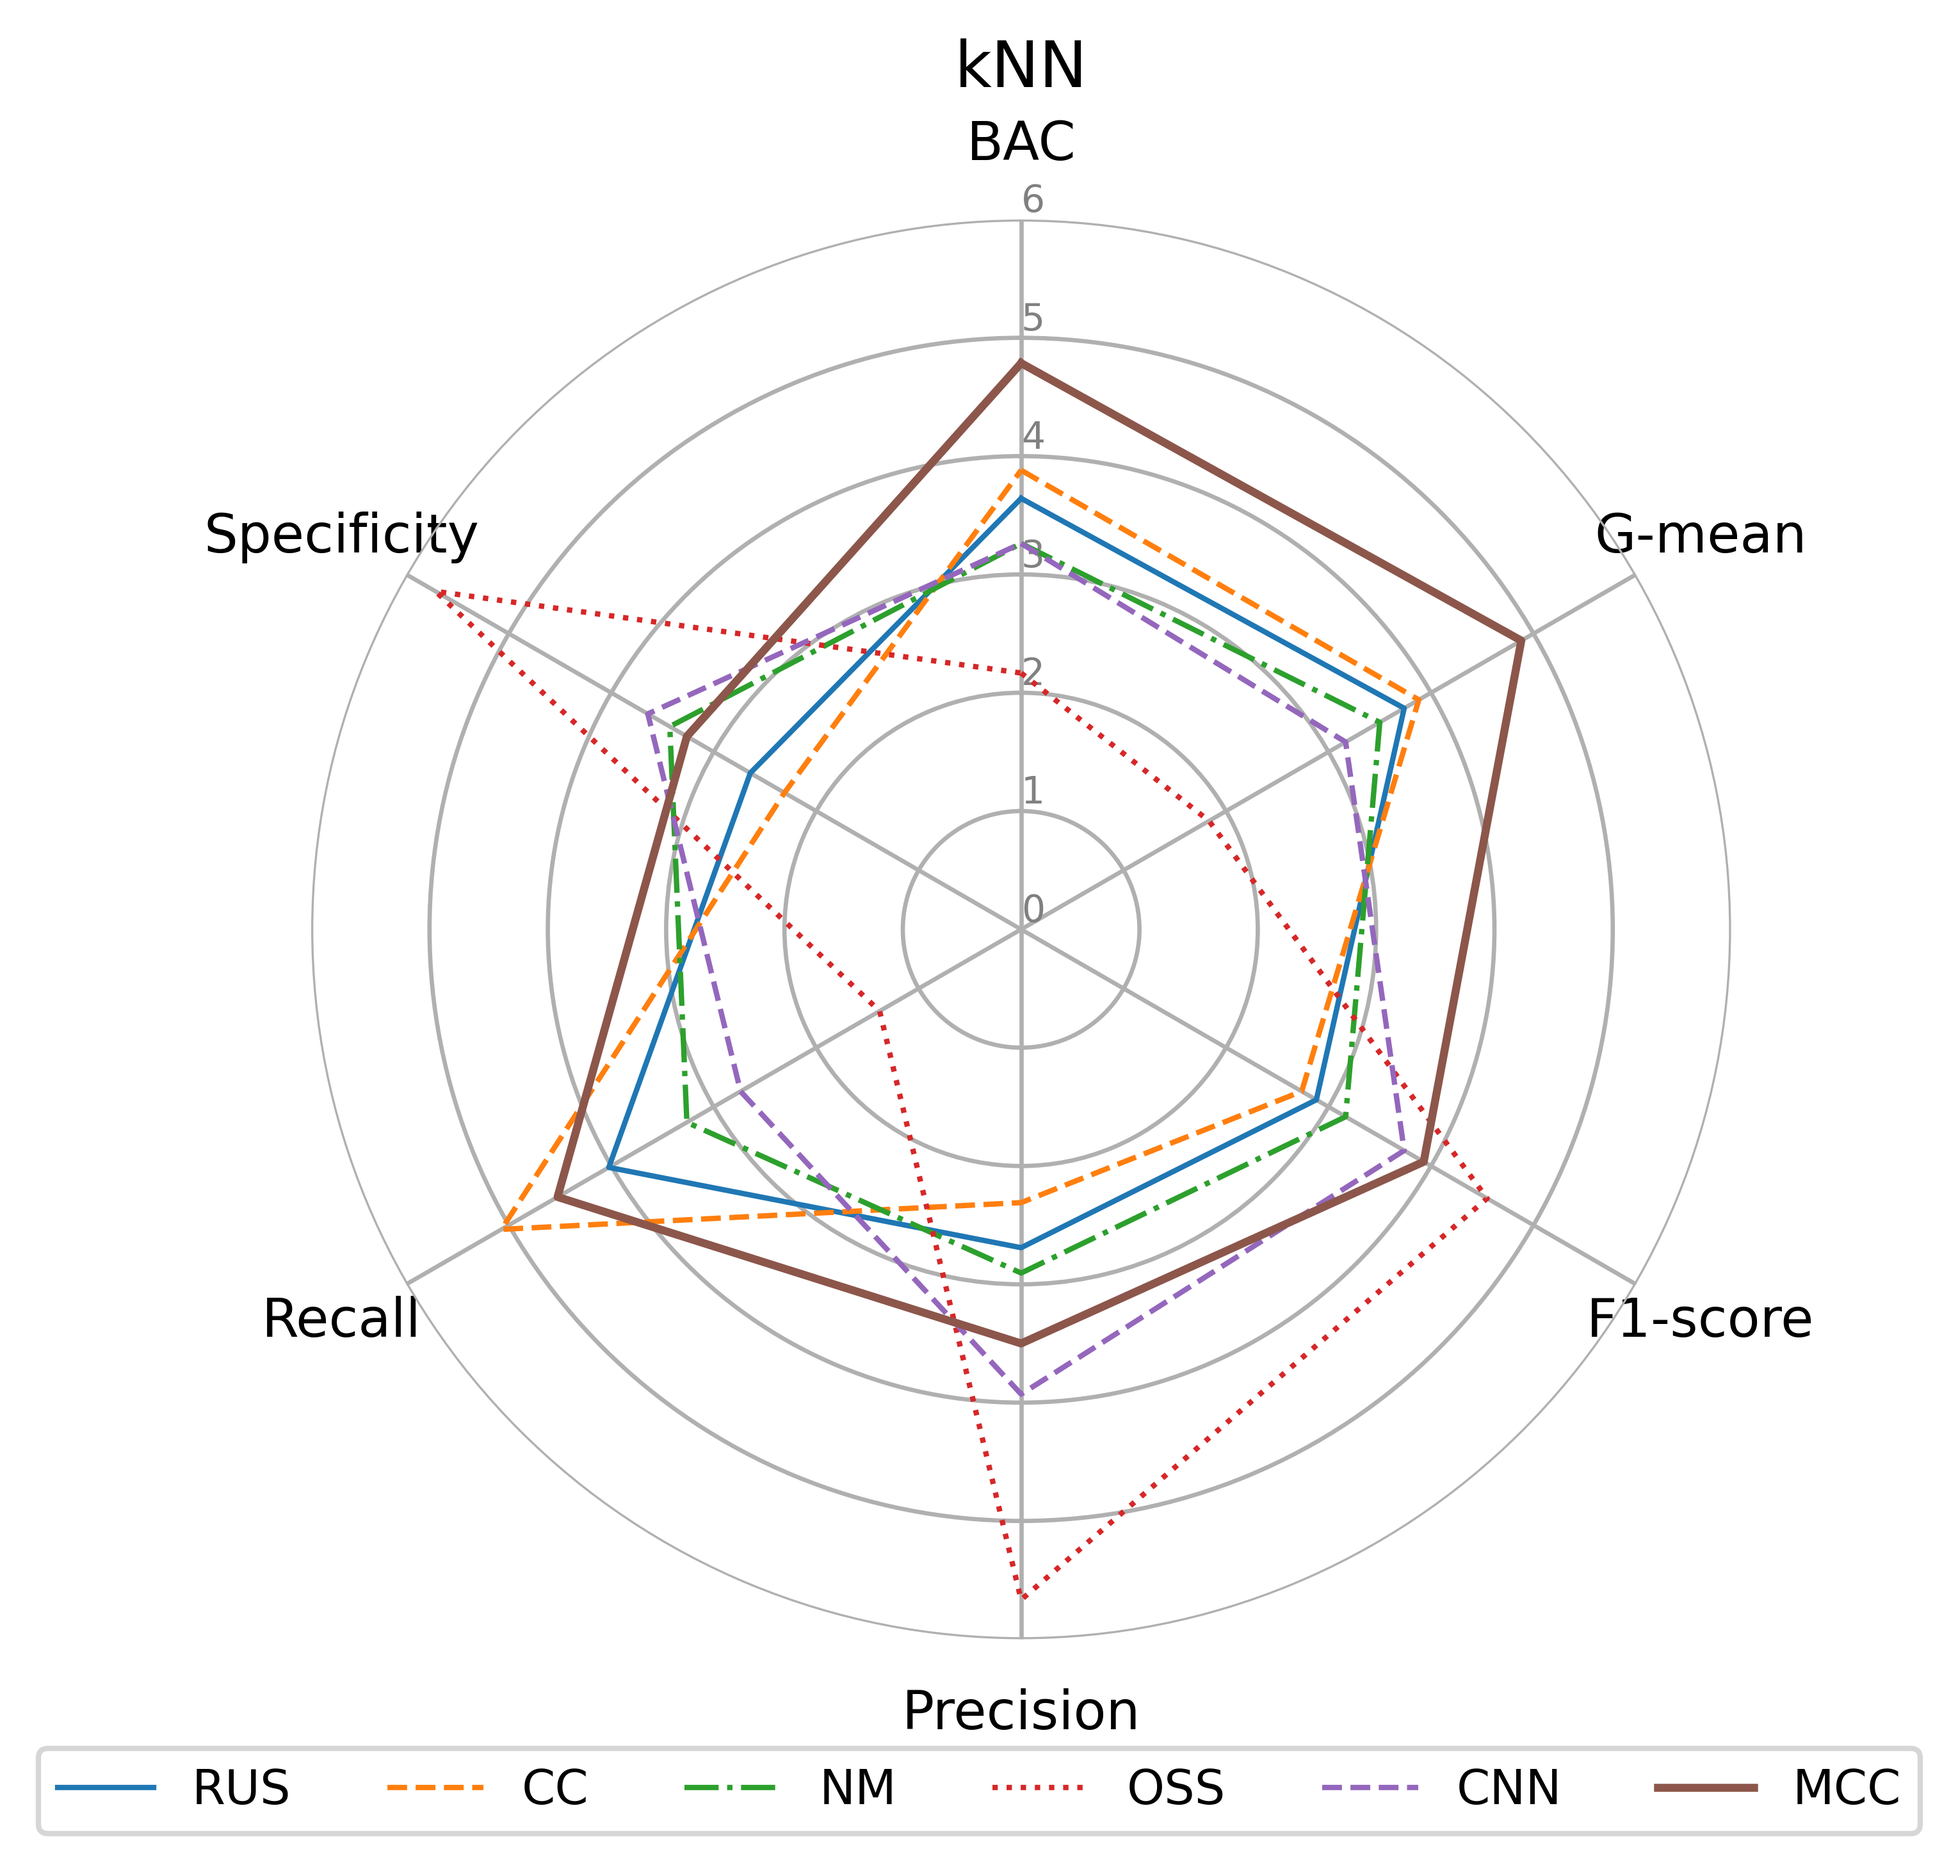
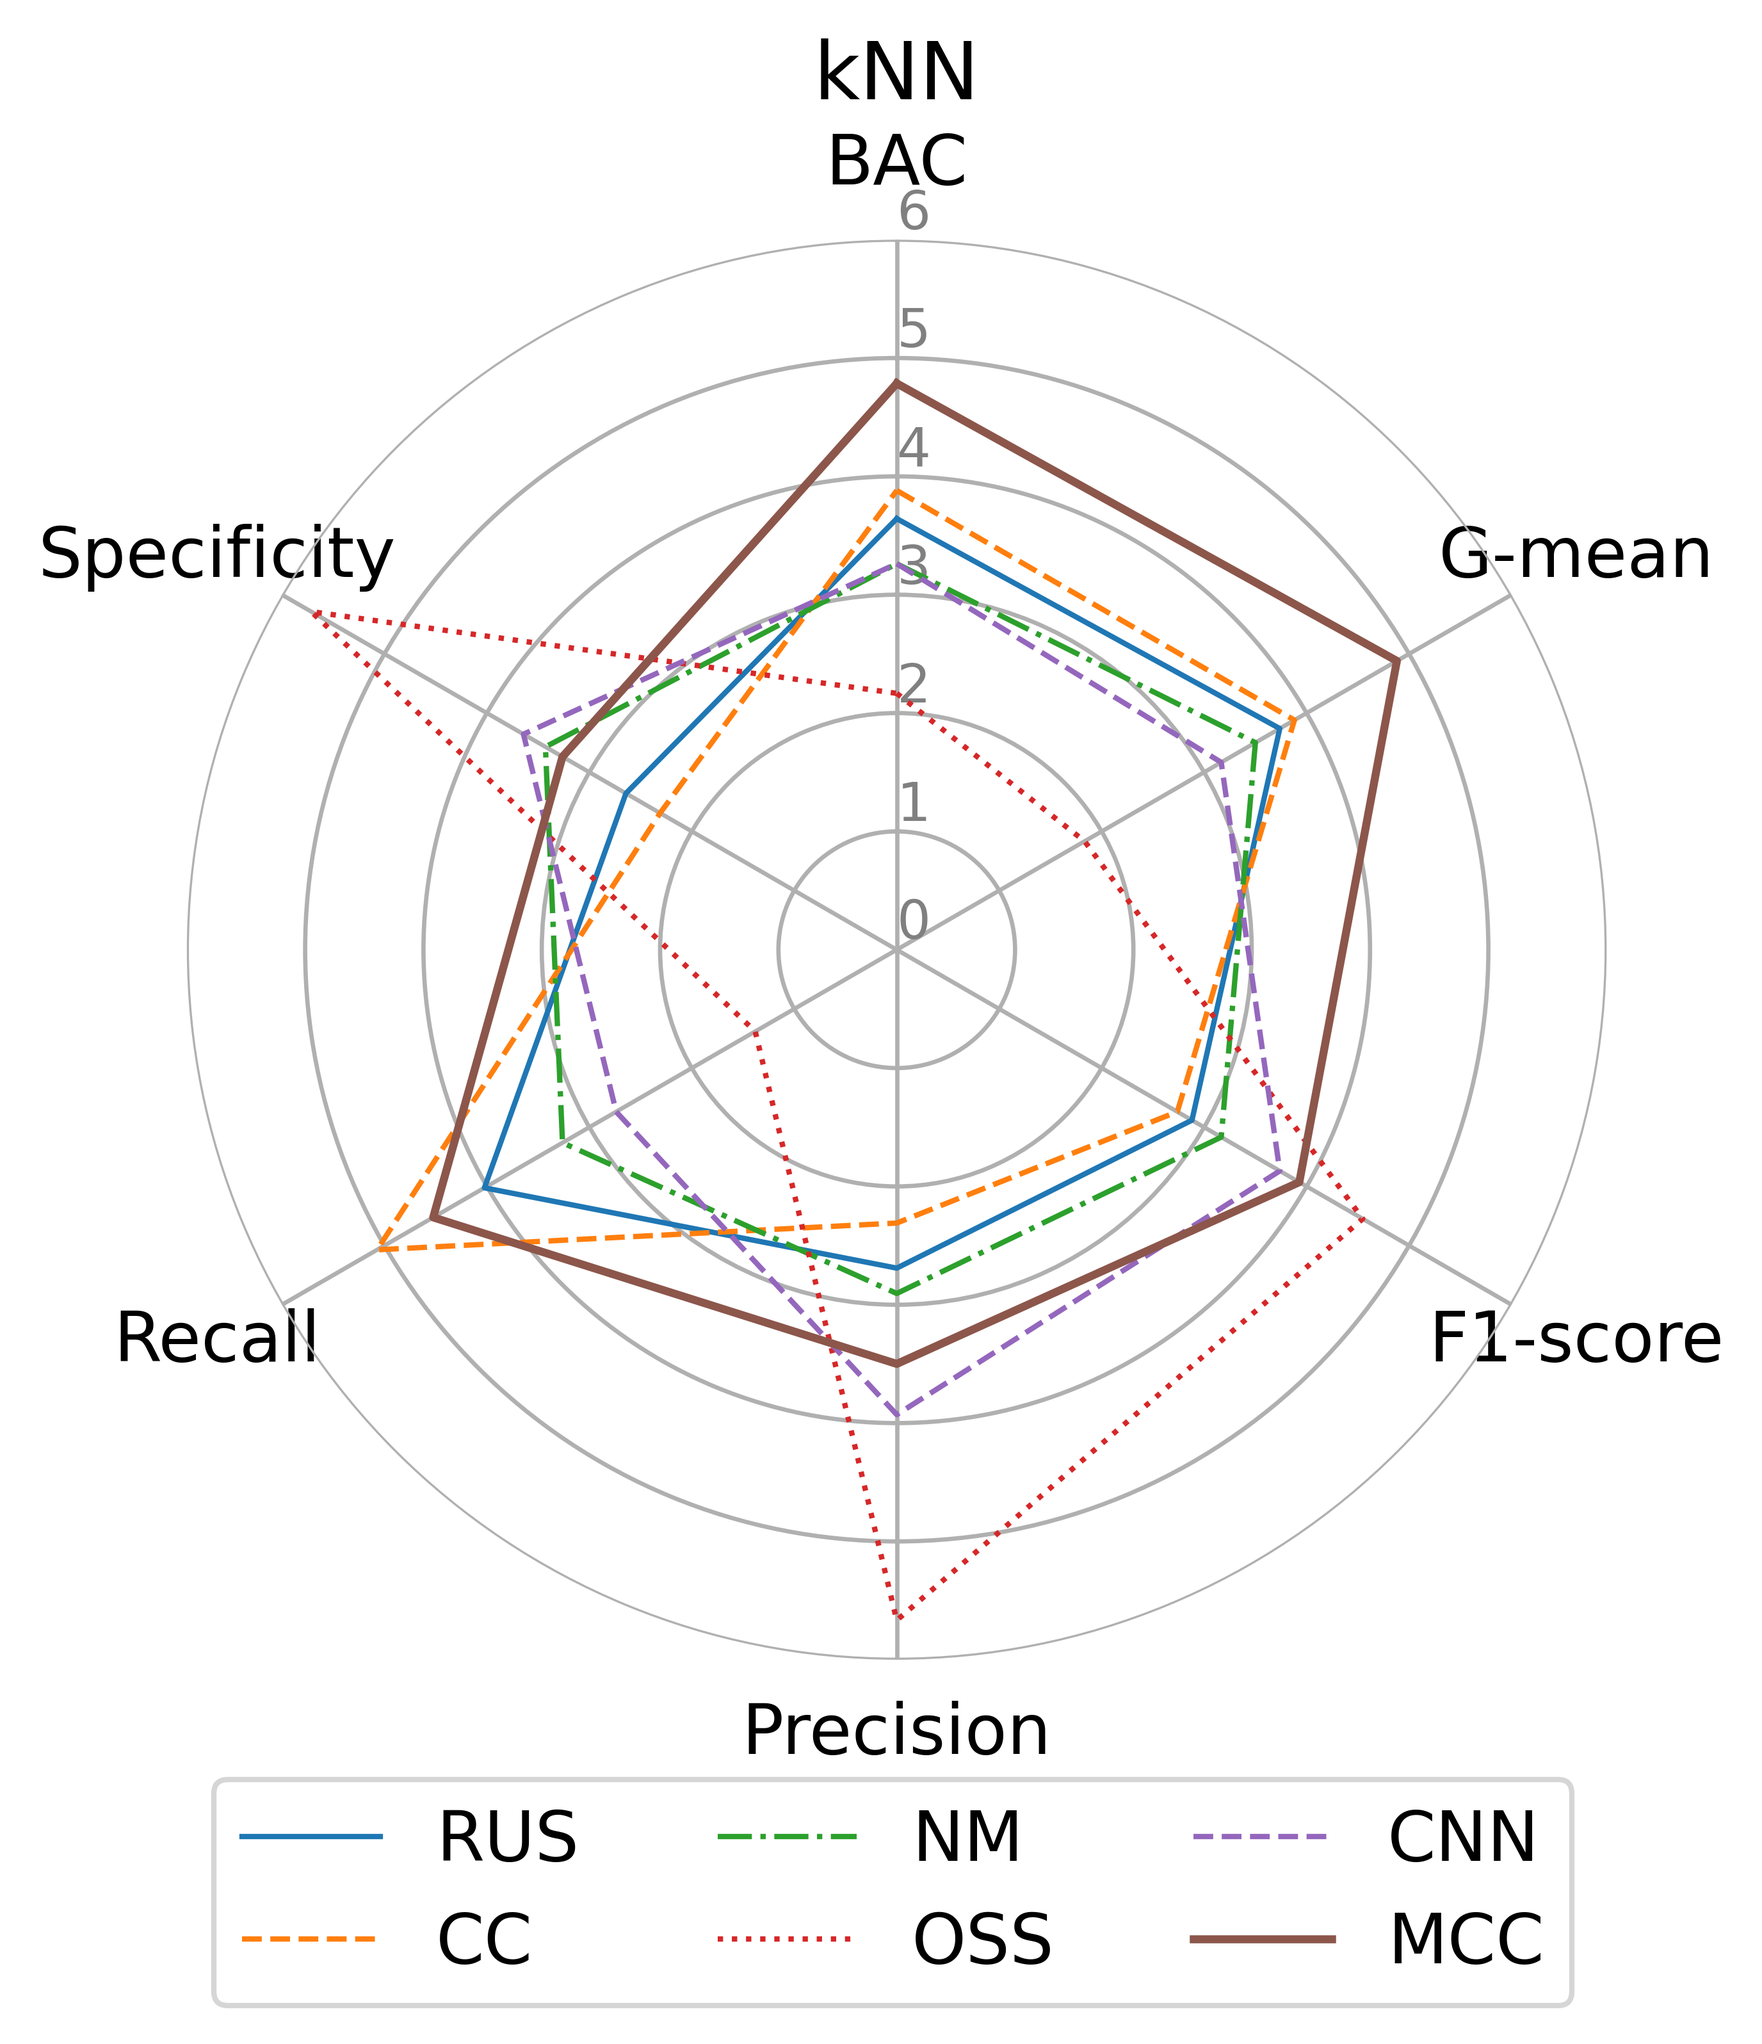
add datasets

diff --git a/helpers/VisualizeUndersampling.py b/helpers/VisualizeUndersampling.py
@@ -60,95 +60,100 @@ X_OSS, y_OSS = preproc.fit_resample(X,y)
 preprocs = CondensedNearestNeighbour(random_state=1234)
 X_CNN, y_CNN = preproc.fit_resample(X,y)
 
+dim = np.arange(-4,5,1)
+
 # Vizualization
-fig, ax = plt.subplots(2,5, figsize=(18,9))
-fig.rc('axes', labelsize=14)
-fig.rc('xtick', labelsize=13)
-fig.rc('ytick', labelsize=13)
-fig.grid()
+fig, ax = plt.subplots(5,2, figsize=(14,18))
 # Original dataset
-ax[0,0].scatter(*X.T, c=y)
-ax[0,0].set_xlim(-5,5)
-ax[0,0].set_ylim(-5,5)
-ax[0,0].set_xlabel('x1')
-ax[0,0].set_ylabel('x2')
-ax[0,0].set_title('Oryginalny zbiór' )
-ax[0,0].rc('axes', labelsize=14)
-ax[0,0].rc('xtick', labelsize=13)
-ax[0,0].rc('ytick', labelsize=13)
+ax[0,0].scatter(*X.T, c=y, cmap='RdBu')
+ax[0,0].set_xlim(-4,4)
+ax[0,0].set_ylim(-4,4)
+ax[0,0].set_xlabel('x1',fontsize=16)
+ax[0,0].set_ylabel('x2',fontsize=16)
+ax[0,0].set_title('Oryginalny zbiór', fontsize=18)
 ax[0,0].grid()
 
 # MCC DBSCAN-const
-ax[0,1].scatter(*X_DBSCAN.T, c=y_DBSCAN)
-ax[0,1].set_xlim(-5,5)
-ax[0,1].set_ylim(-5,5)
-ax[0,1].set_xlabel('x1')
-ax[0,1].set_ylabel('x2')
-ax[0,1].set_title('MCC DBSCAN-const')
+ax[0,1].scatter(*X_DBSCAN.T, c=y_DBSCAN, cmap='RdBu')
+ax[0,1].set_xlim(-4,4)
+ax[0,1].set_ylim(-4,4)
+ax[0,1].set_xlabel('x1',fontsize=16)
+ax[0,1].set_ylabel('x2',fontsize=16)
+ax[0,1].set_title('MCC DBSCAN-const', fontsize=18)
+ax[0,1].grid()
 
 # MCC OPTICS-const
-ax[0,3].scatter(*X_OPTICS.T, c=y_OPTICS)
-ax[0,3].set_xlim(-5,5)
-ax[0,3].set_ylim(-5,5)
-ax[0,3].set_xlabel('x1')
-ax[0,3].set_ylabel('x2')
-ax[0,3].set_title('MCC OPTICS-const')
-
-# RUS
-ax[1,0].scatter(*X_RUS.T, c=y_RUS)
-ax[1,0].set_xlim(-5,5)
-ax[1,0].set_ylim(-5,5)
-ax[1,0].set_xlabel('x1')
-ax[1,0].set_ylabel('x2')
-ax[1,0].set_title('RUS')
-
-# CC
-ax[1,1].scatter(*X_CC.T, c=y_CC)
-ax[1,1].set_xlim(-5,5)
-ax[1,1].set_ylim(-5,5)
-ax[1,1].set_xlabel('x1')
-ax[1,1].set_ylabel('x2')
-ax[1,1].set_title('CC')
-
-# NearMiss
-ax[1,2].scatter(*X_NM.T, c=y_NM)
-ax[1,2].set_xlim(-5,5)
-ax[1,2].set_ylim(-5,5)
-ax[1,2].set_xlabel('x1')
-ax[1,2].set_ylabel('x2')
-ax[1,2].set_title('NearMiss')
-
-# MCC OPTICS-auto
-ax[0,4].scatter(*X_OPTICS_auto.T, c=y_OPTICS_auto)
-ax[0,4].set_xlim(-5,5)
-ax[0,4].set_ylim(-5,5)
-ax[0,4].set_xlabel('x1')
-ax[0,4].set_ylabel('x2')
-ax[0,4].set_title('MCC OPTICS-auto')
-
-# CNN
-ax[1,3].scatter(*X_CNN.T, c=y_CNN)
-ax[1,3].set_xlim(-5,5)
-ax[1,3].set_ylim(-5,5)
-ax[1,3].set_xlabel('x1')
-ax[1,3].set_ylabel('x2')
-ax[1,3].set_title('CNN')
+ax[1,0].scatter(*X_OPTICS.T, c=y_OPTICS, cmap='RdBu')
+ax[1,0].set_xlim(-4,4)
+ax[1,0].set_ylim(-4,4)
+ax[1,0].set_xlabel('x1',fontsize=16)
+ax[1,0].set_ylabel('x2',fontsize=16)
+ax[1,0].set_title('MCC OPTICS-const', fontsize=18)
+ax[1,0].grid()
 
 # MCC DBSCAN-auto
-ax[0,2].scatter(*X_DBSCAN_auto.T, c=y_DBSCAN_auto)
-ax[0,2].set_xlim(-5,5)
-ax[0,2].set_ylim(-5,5)
-ax[0,2].set_xlabel('x1')
-ax[0,2].set_ylabel('x2')
-ax[0,2].set_title('MCC DBSCAN-auto')
+ax[1,1].scatter(*X_DBSCAN_auto.T, c=y_DBSCAN_auto, cmap='RdBu')
+ax[1,1].set_xlim(-4,4)
+ax[1,1].set_ylim(-4,4)
+ax[1,1].set_xlabel('x1',fontsize=16)
+ax[1,1].set_ylabel('x2',fontsize=16)
+ax[1,1].set_title('MCC DBSCAN-auto', fontsize=18)
+ax[1,1].grid()
+
+# MCC OPTICS-auto
+ax[2,0].scatter(*X_OPTICS_auto.T, c=y_OPTICS_auto, cmap='RdBu')
+ax[2,0].set_xlim(-4,4)
+ax[2,0].set_ylim(-4,4)
+ax[2,0].set_xlabel('x1',fontsize=16)
+ax[2,0].set_ylabel('x2',fontsize=16)
+ax[2,0].set_title('MCC OPTICS-auto', fontsize=18)
+ax[2,0].grid()
+
+# RUS
+ax[2,1].scatter(*X_RUS.T, c=y_RUS, cmap='RdBu')
+ax[2,1].set_xlim(-4,4)
+ax[2,1].set_ylim(-4,4)
+ax[2,1].set_xlabel('x1',fontsize=16)
+ax[2,1].set_ylabel('x2',fontsize=16)
+ax[2,1].set_title('RUS', fontsize=18)
+ax[2,1].grid()
+
+# CC
+ax[3,0].scatter(*X_CC.T, c=y_CC, cmap='RdBu')
+ax[3,0].set_xlim(-4,4)
+ax[3,0].set_ylim(-4,4)
+ax[3,0].set_xlabel('x1',fontsize=16)
+ax[3,0].set_ylabel('x2',fontsize=16)
+ax[3,0].set_title('CC', fontsize=18)
+ax[3,0].grid()
+
+# NearMiss
+ax[3,1].scatter(*X_NM.T, c=y_NM, cmap='RdBu')
+ax[3,1].set_xlim(-4,4)
+ax[3,1].set_ylim(-4,4)
+ax[3,1].set_xlabel('x1',fontsize=16)
+ax[3,1].set_ylabel('x2',fontsize=16)
+ax[3,1].set_title('NearMiss', fontsize=18)
+ax[3,1].grid()
+
+# CNN
+ax[4,0].scatter(*X_CNN.T, c=y_CNN, cmap='RdBu')
+ax[4,0].set_xlim(-4,4)
+ax[4,0].set_ylim(-4,4)
+ax[4,0].set_xlabel('x1',fontsize=16)
+ax[4,0].set_ylabel('x2',fontsize=16)
+ax[4,0].set_title('CNN', fontsize=18)
+ax[4,0].grid()
 
 # OSS
-ax[1,4].scatter(*X_OSS.T, c=y_OSS)
-ax[1,4].set_xlim(-5,5)
-ax[1,4].set_ylim(-5,5)
-ax[1,4].set_xlabel('x1')
-ax[1,4].set_ylabel('x2')
-ax[1,4].set_title('OSS')
+ax[4,1].scatter(*X_OSS.T, c=y_OSS, cmap='RdBu')
+ax[4,1].set_xlim(-4,4)
+ax[4,1].set_ylim(-4,4)
+ax[4,1].set_xlabel('x1',fontsize=16)
+ax[4,1].set_ylabel('x2',fontsize=16)
+ax[4,1].set_title('OSS', fontsize=18)
+ax[4,1].grid()
+
 
 plt.tight_layout()
 plt.savefig("../images/UnersamplingVisualization.png", dpi=600)

diff --git a/undersampling_test/RadarGraph.py b/undersampling_test/RadarGraph.py
@@ -5,7 +5,7 @@ import numpy as np
 preprocs= ['RUS', 'CC', 'NM', 'OSS', 'CNN', 'MCC']
 metrics = ["BAC", "G-mean", "F1-score", "Precision", "Recall", "Specificity"]
 
-ranks = np.load("../results/UNDERSAMPLING/GNB_RanksUndersampling.npy")
+ranks = np.load("../results/UNDERSAMPLING/CART_RanksUndersampling.npy")
 mean_ranks = np.mean(ranks, axis=1)
 N = len(preprocs)
 angles = [n / float(N) * 2 * pi for n in range(N)]
@@ -17,10 +17,10 @@ ax.set_theta_direction(-1)
 ax.set_rlabel_position(0)
 ax.spines["polar"].set_visible(False)
 
-plt.xticks(angles[:-1], metrics)
-plt.yticks([0,1, 2, 3, 4, 5, 6], ["0", "1", "2", "3", "4", "5", "6"], color="grey", size=7)
+plt.xticks(angles[:-1], metrics, fontsize=13)
+plt.yticks([0,1, 2, 3, 4, 5, 6], ["0", "1", "2", "3", "4", "5", "6"], color="grey", size=10)
 plt.ylim(0,6)
-plt.title("GNB")
+plt.title("CART", fontsize=15)
 
 ls = ["-", "--", "-.", ":", "--", "-"]
 lw = [1, 1, 1, 1, 1, 1.5]
@@ -31,7 +31,7 @@ for method_id, method in enumerate(preprocs):
     ax.plot(angles, values, linewidth=lw[method_id], linestyle=ls[method_id], label=method)
 
 # Legend
-plt.legend(bbox_to_anchor=(1.15, -0.06), ncol=8, fontsize=9)
+plt.legend(bbox_to_anchor=(1, -0.06), ncol=3, fontsize=13)
 
 # Save image
-plt.savefig("../images/GNB_UndersamplingRadar", dpi=600, bbox_inches='tight')
+plt.savefig("../images/CART_UndersamplingRadar", dpi=600, bbox_inches='tight')

diff --git a/helpers/ImbalancedData.py b/helpers/ImbalancedData.py
@@ -14,9 +14,9 @@ X,y = make_classification(
 )
 
 dim = np.arange(-4,5,1)
-plt.rc('axes', labelsize=14)
-plt.rc('xtick', labelsize=13)
-plt.rc('ytick', labelsize=13) 
+plt.rc('axes', labelsize=18)
+plt.rc('xtick', labelsize=16)
+plt.rc('ytick', labelsize=16) 
 plt.scatter(X[:,0],X[:,1], marker="o", c=y, cmap="bwr")
 plt.xlabel("x1")
 plt.ylabel("x2")

diff --git a/helpers/Clustering.py b/helpers/Clustering.py
@@ -44,8 +44,10 @@ for k, col in zip(unique_labels, colors):
         markeredgecolor="k",
     )
 
-plt.title("Zbiór danych po klasteryzacji")
-plt.xlabel('x1')
-plt.ylabel('x2')
+plt.xlabel('x1', fontsize=13)
+plt.ylabel('x2', fontsize=13)
+plt.grid()
+plt.xlim([-3,3])
+plt.ylim([-3,3])
 plt.tight_layout()
 plt.savefig('../images/Clusters')
